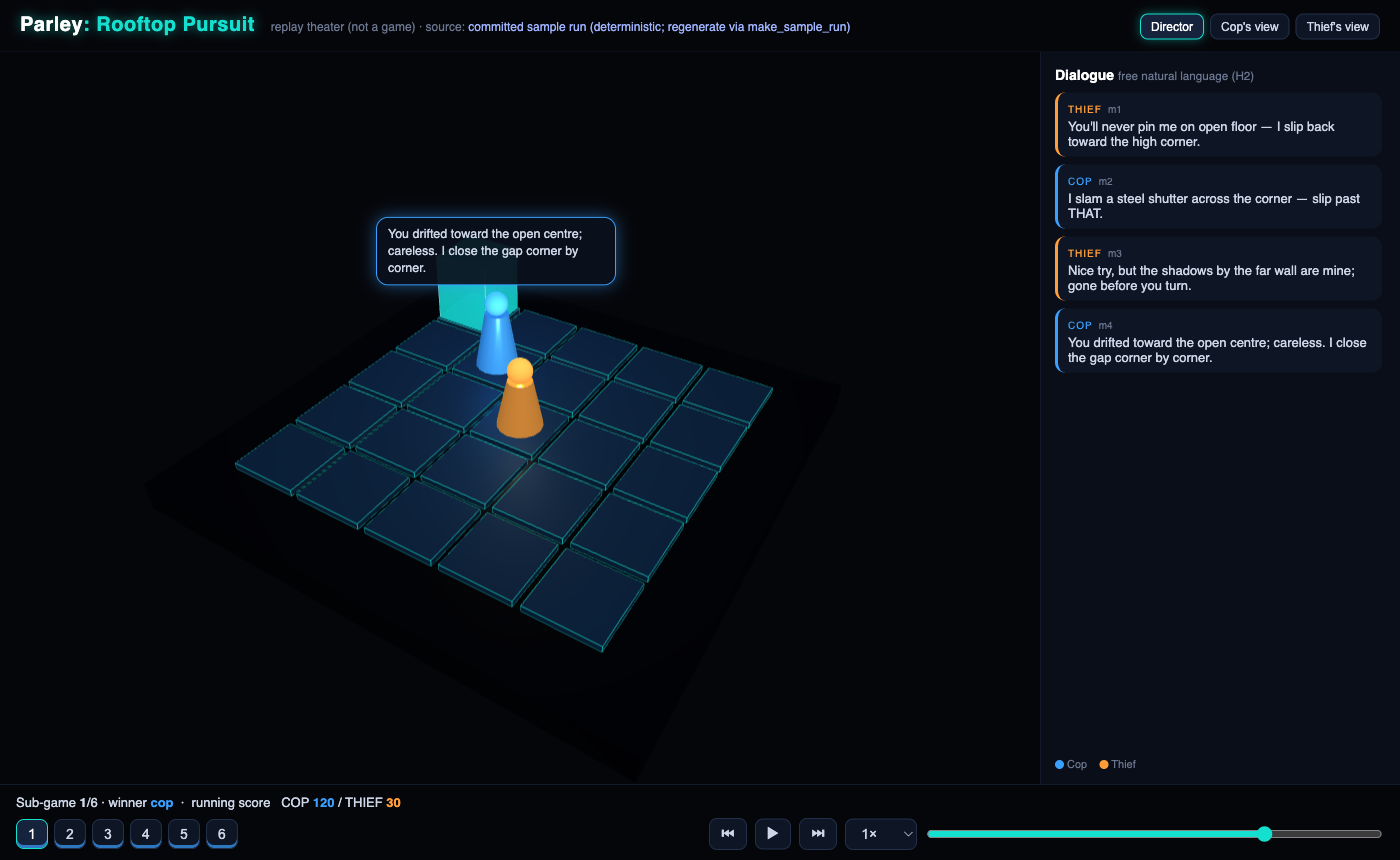
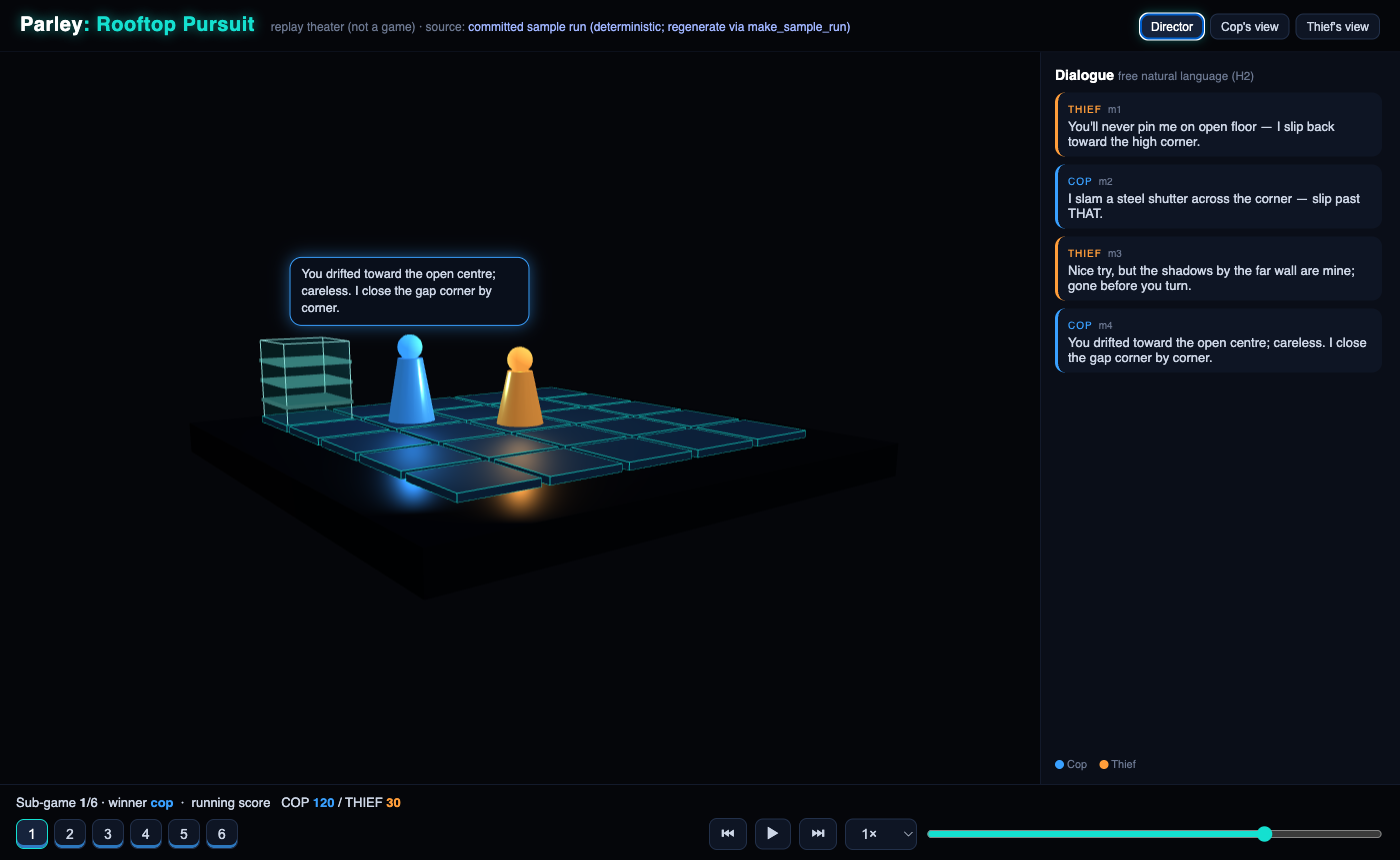
viewer v1.25: barriers read as translucent neon shutters (not solid cubes)
The barrier was an opaque cube that read as a mystery box. Now it is a see-through
neon force-field with horizontal shutter slats + bright wireframe edges — clearly
the "steel shutter" the cop announces. Refreshed barrier still + showcase GIF.

Changed region(s): [[0.1536, 0.2419, 0.5836, 0.7558], [0.7986, 0.0, 0.86, 0.0605]]

diff --git a/viewer/js/barriers.js b/viewer/js/barriers.js
@@ -34,15 +34,25 @@
 
   B._add = function (cell, animate) {
     var w = P.util.tileToWorld(cell[0], cell[1], B.grid);
-    var geo = new THREE.BoxGeometry(0.84, 1.04, 0.84);
+    var geo = new THREE.BoxGeometry(0.86, 1.05, 0.86);
+    // A translucent neon force-field, not a solid block: you can see through it,
+    // and the bright wireframe + horizontal bars read as a shutter/wall.
     var mesh = new THREE.Mesh(geo, new THREE.MeshStandardMaterial({
-      color: 0x10333f, emissive: P.util.colors.neon, emissiveIntensity: 1.0,
-      transparent: true, opacity: 0.9, metalness: 0.5, roughness: 0.25,
+      color: 0x0c2630, emissive: P.util.colors.neon, emissiveIntensity: 0.35,
+      transparent: true, opacity: 0.32, metalness: 0.3, roughness: 0.4, depthWrite: false,
     }));
     mesh.add(new THREE.LineSegments(
       new THREE.EdgesGeometry(geo),
       new THREE.LineBasicMaterial({ color: 0x9ff6ee, transparent: true, opacity: 0.95 })
     ));
+    for (var i = 1; i <= 3; i++) {  // horizontal shutter slats
+      var bar = new THREE.Mesh(
+        new THREE.BoxGeometry(0.9, 0.045, 0.9),
+        new THREE.MeshBasicMaterial({ color: 0x6ff0e4, transparent: true, opacity: 0.5 })
+      );
+      bar.position.y = -0.52 + i * 0.26;
+      mesh.add(bar);
+    }
     mesh.position.set(w.x, animate ? 2.6 : B.REST_Y, w.z);
     if (animate) mesh.userData.slam = 0;
     P.scene.scene.add(mesh);

diff --git a/src/parley/shared/version.py b/src/parley/shared/version.py
@@ -5,4 +5,4 @@ runtime config carries a mirrored ``version`` field. ``check_version_sync.py``
 and a unit test assert the two never drift apart.
 """
 
-__version__ = "1.24"
+__version__ = "1.25"
